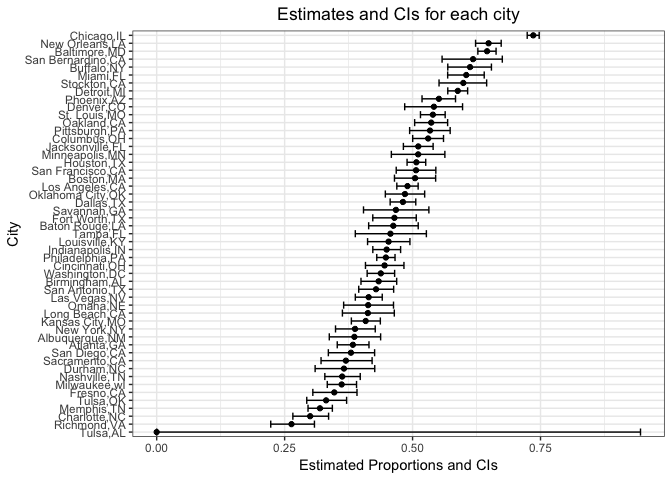
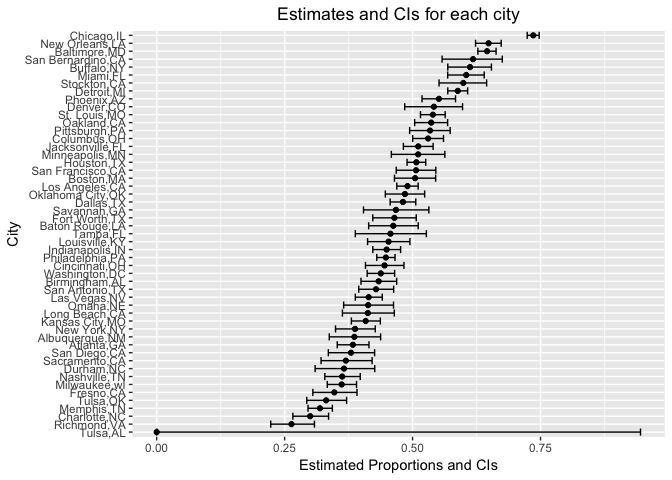
optimize

diff --git a/p8105_hw5_zf2211.md b/p8105_hw5_zf2211.md
@@ -241,7 +241,6 @@ unsolved_data %>%
   geom_point() +
   geom_errorbarh(aes(xmin = conf.low, xmax = conf.high)) +
   labs(title = "Estimates and CIs for each city", x = "Estimated Proportions and CIs", y = "City") +
-  theme_bw() +
   theme(plot.title = element_text(hjust = 0.5)) 
 ```
 
